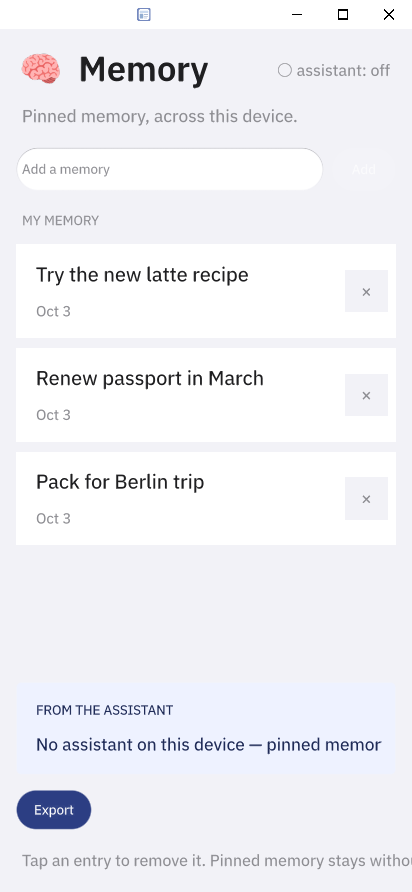
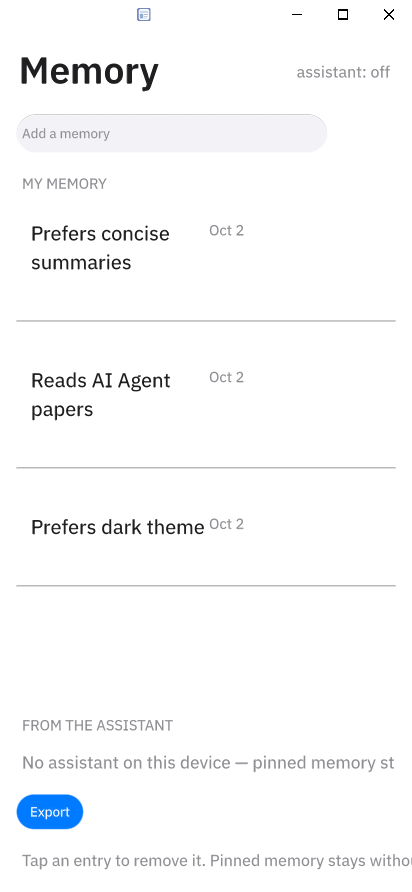
Second version: octos-only, no local pin cache
Memory is now the pinned view of the same assistant memory
Notes and Digest already share. Reads go through
octos.session.history filtering for the 'Pin: ' prefix;
Pin / Unpin / Export all go through octos.turn.start.
On devices without an octos service the app shows
'Assistant unavailable' honestly and does nothing else.

- capabilities: storage -> octos.session.history + octos.turn.start
- title row: status chip moves below subtitle (was wrapping)
- PRIVACY: rewrite for octos-only architecture
- listing: 'no local pin cache'; note that os.* must be built into
  Rinx's system-apps.json, not imported at runtime
- signed with TheOne (system-app: PASSED)

diff --git a/PRIVACY.md b/PRIVACY.md
@@ -1,41 +1,56 @@
-# Privacy Policy — os.memory
+# Privacy Policy — Memory
 
-`os.memory` is a **system app** that ships with the device and acts as a
-cross-app memory hub. This release is local-first and offline-safe.
+`Memory` is the **pinned view** in a Notes + Digest + Memory trio. Every pin
+you add is sent straight to your device's assistant through the
+`octos.turn.start` host service, and the list shown back to you is read
+from the same assistant's `octos.session.history`. The device itself
+keeps no copy of the pins.
 
 ## Data this app stores
 
-- `memories.json` in `.local-state/os.memory/` — the user's pinned
-  memory entries plus an `export.txt` snapshot.
-- All storage stays on-device in the system app jail allocated by
-  `card-host --system` (64 MiB cap, governed by `HostLimits::system()`).
+None. No file is written under `.local-state/os-memory/` for the pins
+themselves; the app does not call the `storage` capability.
 
 ## Data this app requests
 
-- `storage` capability — used only for the on-device jail above.
-- `octos.session.history` host service — read-only API that asks this
-  app's own agent how many messages it holds in its lane; the reply is
-  shown in the "From the assistant" section. It does not transmit user
-  data off-device.
+- `octos.turn.start` host service — invoked on three explicit user
+  actions, each sending exactly one short string to the assistant:
+  - **Pin**: `Pin: <text>`
+  - **Unpin** (per row): `Forget this pin: <text>`
+  - **Export**: `Summarize what you remember as pinned entries, one bullet per pin.`
+- `octos.session.history` host service — invoked when the screen opens
+  and after every Pin / Unpin. The response is filtered locally for
+  messages whose role is `user` and whose text starts with `Pin: `. The
+  remaining text becomes one row. Nothing else from the conversation is
+  read, rendered, stored, or forwarded.
 
 ## What this app does NOT do
 
 - It does not request `network.hosts` and does not open any HTTP/HTTPS
   connection.
-- It does not collect, transmit, or store any data off-device.
-- It does not declare a personal-data category; the on-device jail is the
-  sole destination for any memory entry.
+- It does not request the `storage` capability and does not write any
+  local file.
+- It does not collect telemetry, analytics, or device identifiers.
+- It does not auto-pin: every `octos.turn.start` call is gated by an
+  explicit button tap.
+- It does not collect passwords, PINs, codes, or any account field.
 
 ## Agent profile
 
 `read-only` — the app never asks the host to write, sign, or publish.
 
-## Honest degradation
+## On devices without an assistant
 
-When the host has no assistant (or `octos.session.history` fails), the
-"From the assistant" section shows `No assistant on this device —
-pinned memory still works.` Pinned entries remain fully usable; the
-app does not depend on the assistant lane to function.
+If the host has no assistant service (today: every OctoSense shell,
+every `card-host`), the list shows **Assistant unavailable** and the
+Pin / Unpin / Export buttons do nothing. There is no local cache to fall
+back to.
+
+## System-app note
+
+This bundle declares id `os.memory` and is intended as a system app. On
+Rinx it must be added to the built-in `system-apps.json` catalog; the
+runtime import screen refuses `os.*` IDs by design.
 
 ## Contact
 
